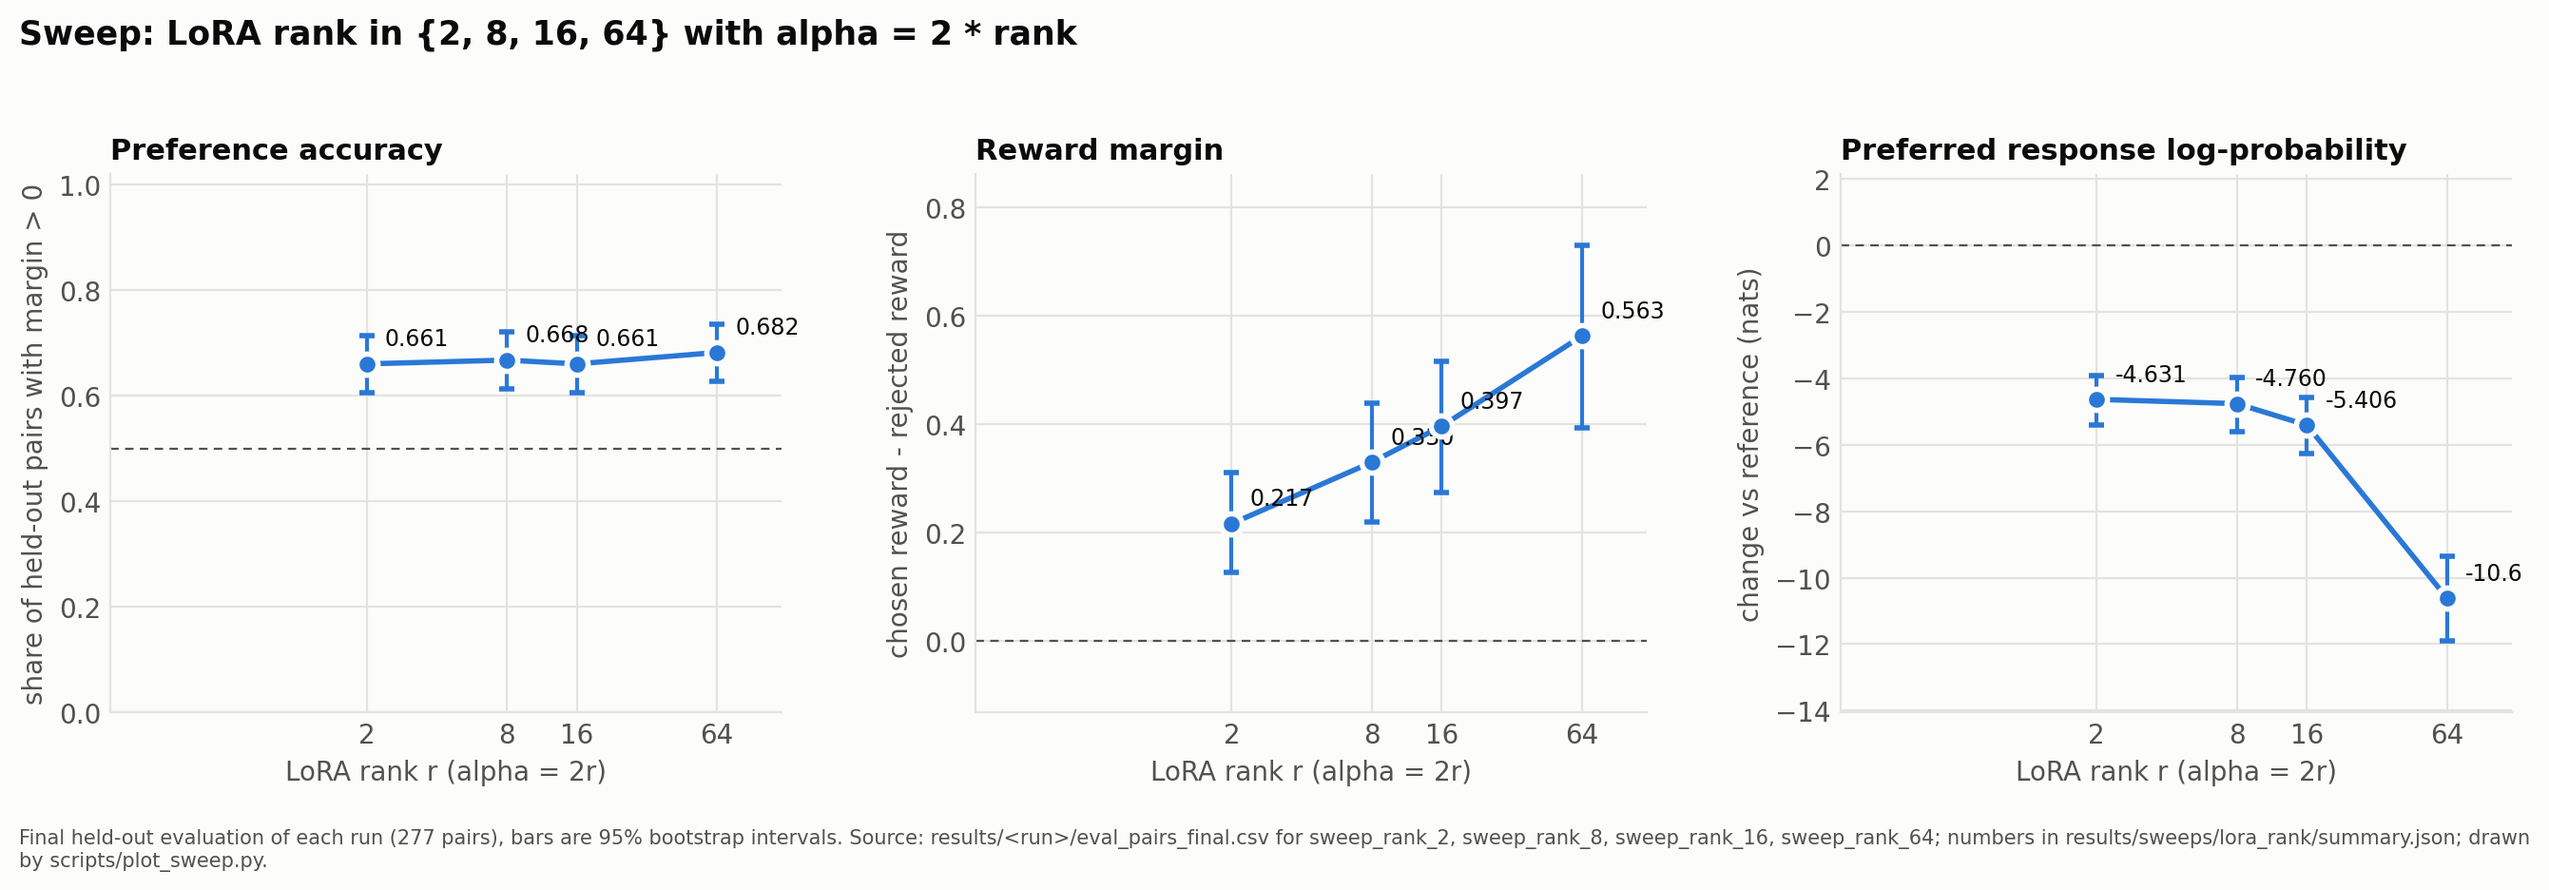
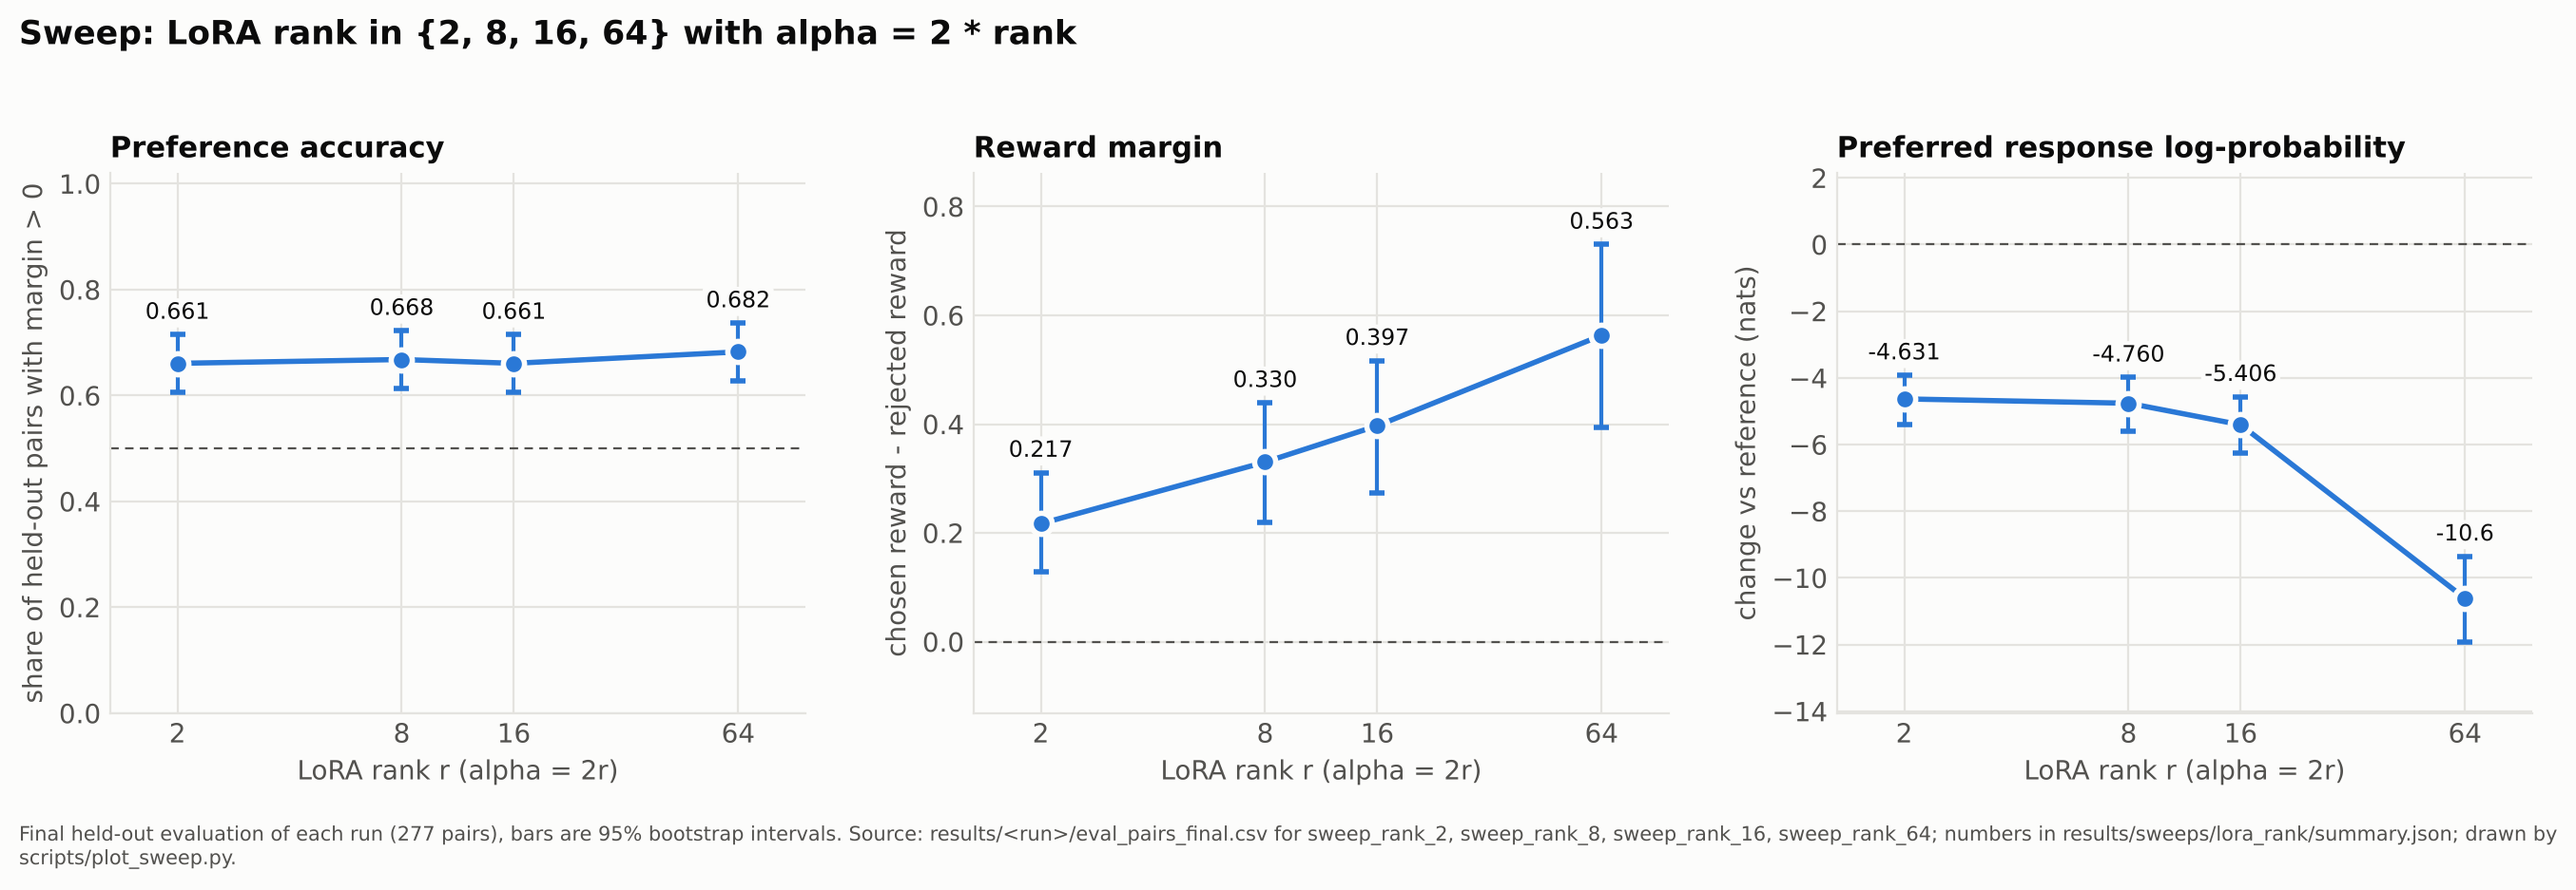
Move sweep figure value labels clear of lines and neighbours

diff --git a/scripts/plot_sweep.py b/scripts/plot_sweep.py
@@ -92,7 +92,6 @@ def make_figure(sweep: Sweep, summary: dict, out_path: Path, root: Path) -> None
     for ax, (key, title, ylabel) in zip(axes, PANELS, strict=True):
         for s_index, name in enumerate(series_names):
             color = SERIES[s_index]
-            label_left = len(series_names) > 1 and s_index == 0
             idx = [i for i, r in enumerate(runs) if (r["series"] or "runs") == name]
             px = [xs[i] + nudge * (s_index - (len(series_names) - 1) / 2) for i in idx]
             mean = [runs[i][key]["mean"] for i in idx]
@@ -115,17 +114,22 @@ def make_figure(sweep: Sweep, summary: dict, out_path: Path, root: Path) -> None
                 label=name,
                 zorder=3,
             )
-            for x, m in zip(px, mean, strict=True):
+            for x, m, lo, hi in zip(px, mean, low, high, strict=True):
+                # The value goes just past the end of its own error bar: above it for the
+                # first series, below it for the second. Next to the point it collided with
+                # the connecting line and with neighbouring points' labels.
+                above = s_index == 0
                 ax.annotate(
                     f"{m:.3f}" if abs(m) < 10 else f"{m:.1f}",
-                    xy=(x, m),
-                    # With two series the first one's labels go to the left of the point
-                    # and the second one's to the right, so labels at a shared x do not collide.
-                    xytext=(-7, 7) if label_left else (7, 7),
-                    ha="right" if label_left else "left",
+                    xy=(x, m + hi if above else m - lo),
+                    xytext=(0, 4 if above else -4),
+                    ha="center",
+                    va="bottom" if above else "top",
                     textcoords="offset points",
                     fontsize=8.5,
                     color=TEXT_PRIMARY,
+                    bbox={"boxstyle": "round,pad=0.15", "facecolor": SURFACE, "edgecolor": "none"},
+                    zorder=4,
                 )
         if key == "accuracy":
             ax.set_ylim(0, 1.02)
